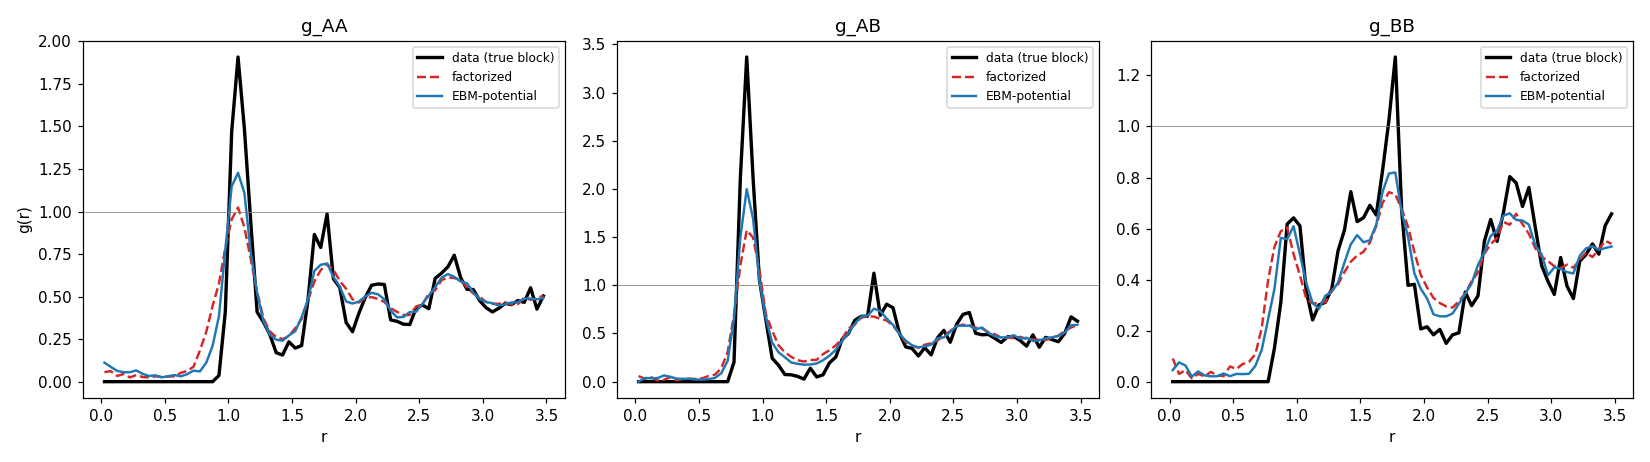
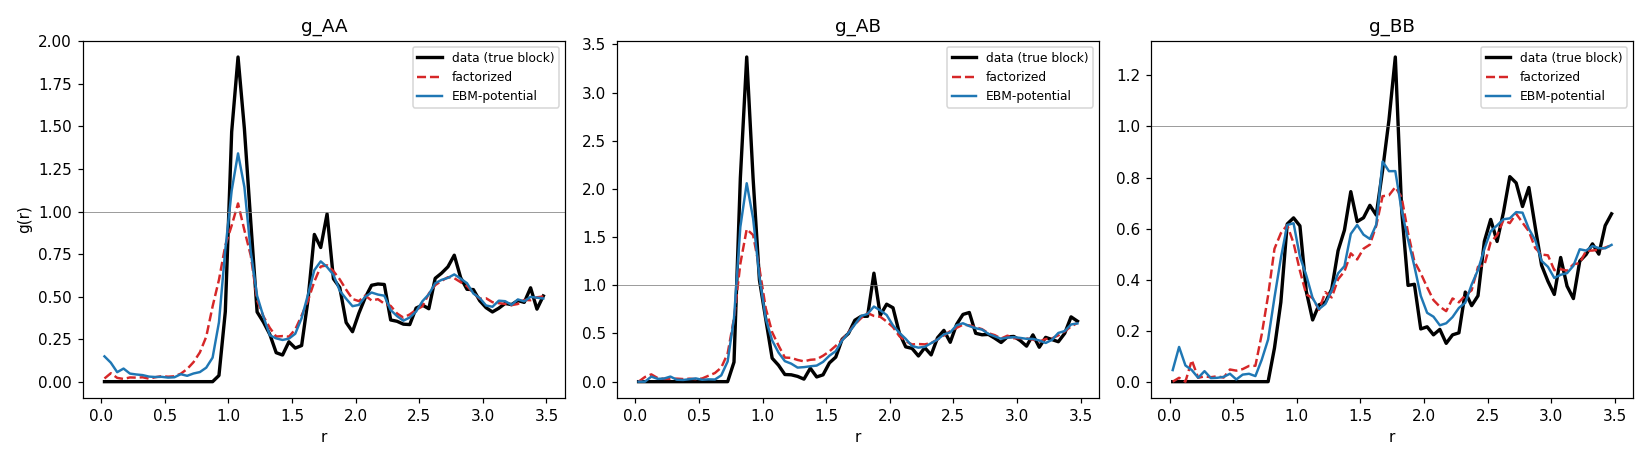
feat(ka-ebm): 2D a-axis tilt (full 2D sharpening) + 3D cavity design
a+b learned-potential tilt: hard-end acceptance k=6 40->45%, k=8 10->25% (N64) vs b-only; g(r) peaks
all higher/L2 lower (g_BB 0.86/0.134). Centralized block samplers in the model. Closes the 2D thesis.
Adds 3D learned-potential cavity-infiller design doc (boundary-as-cage via the pairwise potential;
radius embedding).

diff --git a/liquid_coupling_flow/ka_localframe_ebm.py b/liquid_coupling_flow/ka_localframe_ebm.py
@@ -37,17 +37,37 @@ class KALocalFrameEBM(KALocalFrameModel):
         self.phi = nn.Sequential(nn.Linear(n_rbf + pair_emb, phi_hidden), nn.SiLU(),
                                  nn.Linear(phi_hidden, phi_hidden), nn.SiLU(),
                                  nn.Linear(phi_hidden, 1))
-        # init phi near zero so the model starts == the factorized head (stable warm start)
+        # a-axis (1D) tilt: separate learned potential on the neighbours' a-projections (|a - a_i|).
+        self.pair_emb_a = nn.Embedding(self.n_species * self.n_species, pair_emb)
+        self.phi_a = nn.Sequential(nn.Linear(n_rbf + pair_emb, phi_hidden), nn.SiLU(),
+                                   nn.Linear(phi_hidden, phi_hidden), nn.SiLU(),
+                                   nn.Linear(phi_hidden, 1))
+        # init both potential heads near zero so the model starts == its warm-start (stable)
         for p in self.phi[-1].parameters():
+            nn.init.zeros_(p)
+        for p in self.phi_a[-1].parameters():
             nn.init.zeros_(p)
 
     # ---- learned pairwise potential over the b-column at a fixed a-bin ----
-    def _phi_pair(self, dist, sj, nbr_sp):
-        """dist [...,K], sj [...], nbr_sp [...,K] -> phi [...,K] (learned pairwise energy contribution)."""
+    def _phi_pair(self, dist, sj, nbr_sp, net=None, emb=None):
+        """dist [...,K], sj [...], nbr_sp [...,K] -> phi [...,K] (learned pairwise energy contribution).
+        net/emb default to the 2D b-tilt heads; pass phi_a/pair_emb_a for the 1D a-tilt."""
+        net = self.phi if net is None else net; emb = self.pair_emb if emb is None else emb
         r = torch.exp(-((dist[..., None] - self.rbf_mu) ** 2) / (2 * self.rbf_w ** 2))       # [...,K,n_rbf]
         pair = (sj[..., None] * self.n_species + nbr_sp).clamp(0, self.n_species ** 2 - 1)   # [...,K]
-        pe = self.pair_emb(pair)                                                             # [...,K,pair_emb]
-        return self.phi(torch.cat([r, pe], -1)).squeeze(-1)                                  # [...,K]
+        pe = emb(pair)                                                                       # [...,K,pair_emb]
+        return net(torch.cat([r, pe], -1)).squeeze(-1)                                       # [...,K]
+
+    def _V_a(self, nbr_rel, nbr_sp, valid, sj, arc, acenters):
+        """1D a-axis tilt: V over the n_bins a-bins from the neighbours' a-projections |a - a_i|.
+        Returns V [...,n_bins]. Same short-range knn_pot cutoff as the b-tilt."""
+        K = min(self.knn_pot, nbr_rel.shape[-2])
+        nr, ns, vv = nbr_rel[..., :K, 0], nbr_sp[..., :K], valid[..., :K].float()            # neighbour a-coord
+        a_phys = acenters * arc                                                              # [n_bins]
+        da = (a_phys[..., None] - nr[..., None, :]).abs()                                    # [...,n_bins,K]
+        phi = self._phi_pair(da, sj[..., None].expand(da.shape[:-1]), ns[..., None, :].expand(da.shape),
+                             net=self.phi_a, emb=self.pair_emb_a)
+        return (phi * vv[..., None, :]).sum(-1)                                              # [...,n_bins]
 
     def _V_b(self, ba, nbr_rel, nbr_sp, valid, sj, arc, bcenters):
         """V over the 192 b-bins at the chosen a-bin `ba`. nbr_rel [...,K,2] neighbour coords in the LOCAL
@@ -99,14 +119,16 @@ class KALocalFrameEBM(KALocalFrameModel):
         context, origin, nbr_rel, nbr_sp, valid = self._local_ebm(xo, so, sc, L, N)
         ab = _wrap_pm(xo - origin, L) / arc
         ba, bb = self._bin(ab[..., 0]), self._bin(ab[..., 1])
-        la = F.log_softmax(self.head_a(context), -1)
-        base_b = self.head_b(context + self.bin_a_emb(ba))                                    # [B,N,n_bins]
         bc = self._bin_center(torch.arange(self.n_bins, device=x.device))
-        V = torch.zeros_like(base_b)
+        base_a = self.head_a(context)                                                         # [B,N,n_bins]
+        base_b = self.head_b(context + self.bin_a_emb(ba))                                    # [B,N,n_bins]
+        Va, Vb = torch.zeros_like(base_a), torch.zeros_like(base_b)
         for c0 in range(0, N, n_chunk):                                                       # chunk N for memory
             sl = slice(c0, c0 + n_chunk)
-            V[:, sl] = self._V_b(ba[:, sl], nbr_rel[:, sl], nbr_sp[:, sl], valid[:, sl], so[:, sl], arc, bc)
-        lb = F.log_softmax(base_b - V, -1)
+            Va[:, sl] = self._V_a(nbr_rel[:, sl], nbr_sp[:, sl], valid[:, sl], so[:, sl], arc, bc)
+            Vb[:, sl] = self._V_b(ba[:, sl], nbr_rel[:, sl], nbr_sp[:, sl], valid[:, sl], so[:, sl], arc, bc)
+        la = F.log_softmax(base_a - Va, -1)
+        lb = F.log_softmax(base_b - Vb, -1)
         lp_ab = la.gather(-1, ba[..., None]).squeeze(-1) + lb.gather(-1, bb[..., None]).squeeze(-1)
         s_logits = self.head_species(context)
         if self.canonical if canonical is None else canonical:
@@ -135,3 +157,39 @@ class KALocalFrameEBM(KALocalFrameModel):
         h = self.tr(torch.cat([self.query.expand(B, 1, -1), feat], 1))[:, 0]
         valid = torch.ones(B, k, dtype=torch.bool, device=pos.device)
         return h, origin, nbr_rel, nbr_sp, valid
+
+    # ---- centralized suffix-blob block samplers (both a- and b- tilts; single source of truth) ----
+    @torch.no_grad()
+    def block_sample_suffix(self, pos0, sp0, k, B, sc, L, return_logq=True):
+        """Regenerate the last-k curve particles for B trials (positions only, species fixed)."""
+        N, dev = pos0.shape[0], pos0.device; arc = self._arc_scale(N)
+        bc = self._bin_center(torch.arange(self.n_bins, device=dev))
+        pos = pos0[None].expand(B, N, 2).clone(); sp = sp0[None].expand(B, N).clone()
+        logq = torch.zeros(B, device=dev)
+        for j in range(N - k, N):
+            h, origin, nr, nsp, val = self._step_ebm(pos, sp, sc[j], j, L)
+            la = F.log_softmax(self.head_a(h) - self._V_a(nr, nsp, val, sp[:, j], arc, bc), -1)
+            ba = torch.multinomial(la.exp(), 1).squeeze(-1)
+            Vb = self._V_b(ba, nr, nsp, val, sp[:, j], arc, bc)
+            lb = F.log_softmax(self.head_b(h + self.bin_a_emb(ba)) - Vb, -1)
+            bb = torch.multinomial(lb.exp(), 1).squeeze(-1)
+            logq += la.gather(-1, ba[:, None]).squeeze(-1) + lb.gather(-1, bb[:, None]).squeeze(-1)
+            a = self._bin_center(ba) + (torch.rand(B, device=dev) - 0.5) * self.bin_w
+            b = self._bin_center(bb) + (torch.rand(B, device=dev) - 0.5) * self.bin_w
+            pos[:, j] = torch.remainder(origin + torch.stack([a, b], -1) * arc, L)
+        return (pos, logq) if return_logq else pos
+
+    @torch.no_grad()
+    def block_logp_suffix(self, pos_in, sp0, k, sc, L):
+        """logq of the last-k block in pos_in (any B configs) under the same doubly-tilted head."""
+        B, N, dev = pos_in.shape[0], pos_in.shape[1], pos_in.device; arc = self._arc_scale(N)
+        bc = self._bin_center(torch.arange(self.n_bins, device=dev))
+        pos = pos_in.clone(); sp = sp0[None].expand(B, N).clone(); lp = torch.zeros(B, device=dev)
+        for j in range(N - k, N):
+            h, origin, nr, nsp, val = self._step_ebm(pos, sp, sc[j], j, L)
+            ab = _wrap_pm(pos[:, j] - origin, L) / arc; ba = self._bin(ab[..., 0]); bb = self._bin(ab[..., 1])
+            la = F.log_softmax(self.head_a(h) - self._V_a(nr, nsp, val, sp[:, j], arc, bc), -1)
+            Vb = self._V_b(ba, nr, nsp, val, sp[:, j], arc, bc)
+            lb = F.log_softmax(self.head_b(h + self.bin_a_emb(ba)) - Vb, -1)
+            lp += la.gather(-1, ba[:, None]).squeeze(-1) + lb.gather(-1, bb[:, None]).squeeze(-1)
+        return lp

diff --git a/reports/logs-2026-07-10/test_ebm_block_mtm.py b/reports/logs-2026-07-10/test_ebm_block_mtm.py
@@ -22,37 +22,12 @@ sc = m.geo._scaffold(N, dev); arc = m._arc_scale(N)
 bc = m._bin_center(torch.arange(m.n_bins, device=dev))
 
 
-@torch.no_grad()
 def block_sample(pos0, sp0, k, B):
-    pos = pos0[None].expand(B, N, 2).clone(); sp = sp0[None].expand(B, N).clone()
-    logq = torch.zeros(B, device=dev)
-    for j in range(N - k, N):
-        h, origin, nr, nsp, val = m._step_ebm(pos, sp, sc[j], j, L)
-        la = F.log_softmax(m.head_a(h), -1); ba = torch.multinomial(la.exp(), 1).squeeze(-1)
-        base_b = m.head_b(h + m.bin_a_emb(ba))
-        V = m._V_b(ba, nr, nsp, val, sp[:, j], arc, bc)
-        lb = F.log_softmax(base_b - V, -1); bb = torch.multinomial(lb.exp(), 1).squeeze(-1)
-        logq += la.gather(-1, ba[:, None]).squeeze(-1) + lb.gather(-1, bb[:, None]).squeeze(-1)
-        a = m._bin_center(ba) + (torch.rand(B, device=dev) - 0.5) * m.bin_w
-        b = m._bin_center(bb) + (torch.rand(B, device=dev) - 0.5) * m.bin_w
-        pos[:, j] = torch.remainder(origin + torch.stack([a, b], -1) * arc, L)
-    return pos, logq
+    return m.block_sample_suffix(pos0, sp0, k, B, sc, L)
 
 
-@torch.no_grad()
 def block_logp(pos_in, sp0, k):
-    """logq of the block in pos_in (any config) under the same tilted head. Works for B trials."""
-    B = pos_in.shape[0]; pos = pos_in.clone(); sp = sp0[None].expand(B, N).clone()
-    lp = torch.zeros(B, device=dev)
-    for j in range(N - k, N):
-        h, origin, nr, nsp, val = m._step_ebm(pos, sp, sc[j], j, L)
-        ab = _wrap_pm(pos[:, j] - origin, L) / arc
-        ba = m._bin(ab[..., 0]); bb = m._bin(ab[..., 1])
-        la = F.log_softmax(m.head_a(h), -1)
-        base_b = m.head_b(h + m.bin_a_emb(ba)); V = m._V_b(ba, nr, nsp, val, sp[:, j], arc, bc)
-        lb = F.log_softmax(base_b - V, -1)
-        lp += la.gather(-1, ba[:, None]).squeeze(-1) + lb.gather(-1, bb[:, None]).squeeze(-1)
-    return lp
+    return m.block_logp_suffix(pos_in, sp0, k, sc, L)
 
 
 def clash_in_block(pos, k):

diff --git a/reports/logs-2026-07-10/sweep_ebm_ksweep.py b/reports/logs-2026-07-10/sweep_ebm_ksweep.py
@@ -28,31 +28,12 @@ def energy(pos, sp):
     return float(ka_energy(pos[None], sp.long()[None], L)[0])
 
 
-@torch.no_grad()
 def sample_ebm(pos0, sp0, k, B):
-    pos = pos0[None].expand(B, N, 2).clone(); sp = sp0[None].expand(B, N).clone(); logq = torch.zeros(B, device=dev)
-    for j in range(N - k, N):
-        h, origin, nr, nsp, val = me._step_ebm(pos, sp, sc[j], j, L)
-        la = F.log_softmax(me.head_a(h), -1); ba = torch.multinomial(la.exp(), 1).squeeze(-1)
-        V = me._V_b(ba, nr, nsp, val, sp[:, j], arc, bc)
-        lb = F.log_softmax(me.head_b(h + me.bin_a_emb(ba)) - V, -1); bb = torch.multinomial(lb.exp(), 1).squeeze(-1)
-        logq += la.gather(-1, ba[:, None]).squeeze(-1) + lb.gather(-1, bb[:, None]).squeeze(-1)
-        a = me._bin_center(ba) + (torch.rand(B, device=dev) - 0.5) * me.bin_w
-        b = me._bin_center(bb) + (torch.rand(B, device=dev) - 0.5) * me.bin_w
-        pos[:, j] = torch.remainder(origin + torch.stack([a, b], -1) * arc, L)
-    return pos, logq
+    return me.block_sample_suffix(pos0, sp0, k, B, sc, L)
 
 
-@torch.no_grad()
 def logp_ebm(pos_in, sp0, k):
-    B = pos_in.shape[0]; pos = pos_in.clone(); sp = sp0[None].expand(B, N).clone(); lp = torch.zeros(B, device=dev)
-    for j in range(N - k, N):
-        h, origin, nr, nsp, val = me._step_ebm(pos, sp, sc[j], j, L)
-        ab = _wrap_pm(pos[:, j] - origin, L) / arc; ba = me._bin(ab[..., 0]); bb = me._bin(ab[..., 1])
-        la = F.log_softmax(me.head_a(h), -1); V = me._V_b(ba, nr, nsp, val, sp[:, j], arc, bc)
-        lb = F.log_softmax(me.head_b(h + me.bin_a_emb(ba)) - V, -1)
-        lp += la.gather(-1, ba[:, None]).squeeze(-1) + lb.gather(-1, bb[:, None]).squeeze(-1)
-    return lp
+    return me.block_logp_suffix(pos_in, sp0, k, sc, L)
 
 
 @torch.no_grad()

diff --git a/reports/logs-2026-07-10/struct_ebm_gr.py b/reports/logs-2026-07-10/struct_ebm_gr.py
@@ -28,18 +28,8 @@ bc = me._bin_center(torch.arange(me.n_bins, device=dev))
 edges = torch.linspace(0, RMAX, NB + 1, device=dev); dr = float(edges[1] - edges[0]); rc = (edges[:-1] + edges[1:]) / 2
 
 
-@torch.no_grad()
 def sample_ebm(pos0, sp0, k, B):
-    pos = pos0[None].expand(B, N, 2).clone(); sp = sp0[None].expand(B, N).clone()
-    for j in range(N - k, N):
-        h, origin, nr, nsp, val = me._step_ebm(pos, sp, sc[j], j, L)
-        la = F.softmax(me.head_a(h), -1); ba = torch.multinomial(la, 1).squeeze(-1)
-        V = me._V_b(ba, nr, nsp, val, sp[:, j], arc, bc)
-        lb = F.softmax(me.head_b(h + me.bin_a_emb(ba)) - V, -1); bb = torch.multinomial(lb, 1).squeeze(-1)
-        a = me._bin_center(ba) + (torch.rand(B, device=dev) - 0.5) * me.bin_w
-        b = me._bin_center(bb) + (torch.rand(B, device=dev) - 0.5) * me.bin_w
-        pos[:, j] = torch.remainder(origin + torch.stack([a, b], -1) * arc, L)
-    return pos
+    return me.block_sample_suffix(pos0, sp0, k, B, sc, L, return_logq=False)
 
 
 @torch.no_grad()

diff --git a/docs/superpowers/specs/2026-07-11-ka3d-learned-potential-cavity-design.md b/docs/superpowers/specs/2026-07-11-ka3d-learned-potential-cavity-design.md
@@ -1,0 +1,94 @@
+# 3D learned-potential cavity infiller — design
+
+**Date:** 2026-07-11
+**Status:** design (autonomous build to follow)
+**Predecessor:** 2D validation in `ka_localframe_ebm.py` (memory: learned-potential-embedding) —
+a general learned pairwise potential tilting the AR proposal lifted block-MTM acceptance (k=4 30->85%,
+more trials now convert to acceptance) and raised every species-pair g(r) first peak toward data incl
+g_BB, staying provably exact (sampler logq == scorer 0.0). This design ports that to 3D and targets the
+actual PTS use: **cavity infilling** — regenerate a cavity interior (or a block of it) given a frozen
+pinned boundary.
+
+## Goal
+An exact, size-transferable, boundary-conditioned 3D block-MTM proposal for KA cavity interiors whose
+learned pairwise potential builds hard-core exclusion against BOTH retained interior and boundary
+particles, uniformly. Train at N=100-scale cavities, zero-shot at larger radii.
+
+## Two user directives this design answers
+1. **"Boundary particles treated similarly as surrounding particles."** The learned potential
+   `V_theta(x|cage) = sum_{i in cage} phi_theta(|x - x_i|, s_j, s_i)` sums over `cage = [boundary UNION
+   placed interior]` with NO kind flag — boundary atoms are ordinary terms. The potential needs no
+   ordering and no scaffold anchor (unlike the AR context), so the boundary integrates trivially. This
+   is the clean unification the original two-stream `_frame_context` hack only approximated.
+2. **"Maybe the radius should be embedded somehow."** `_slot_features` already emits
+   `[slot_frac, |anchor|/R, R/2.5]`. The design (a) keeps that, (b) enriches `R/2.5` -> a small Fourier
+   /MLP embedding of R added to the query, and (c) makes R-transfer an explicit validation gate (train
+   multi-radius, zero-shot held-out radius). The potential itself is size-invariant (pairwise, local) and
+   needs no R.
+
+## Architecture
+
+### Base
+Subclass `KA3DScaffoldCatAR` (proven frameless Cat3Head over 3 local-frame axes a,b,c; fixed
+Fibonacci ball scaffold; Morton AR order; soft ball map). Reuse `_contexts`/`_frame_context`/`_origins`
+/`_slot_features` unchanged for the base logits and the frame `Rf`, origin.
+
+### Potential tilt (the new part)
+Tilt the FINAL axis `c | a,b` by the true 3D potential, exactly as 2D tilted `b|a` (bulk gain; the 2D
+a-tilt added only ~0.05 nat, so start final-axis-only; add b/a tilts only if the c-tilt underperforms):
+
+    logits_c(bin) = head_c(h + e + emb_a(ba) + emb_b(bb))  -  V_c(bin)
+    V_c(bin) = sum_{i in cage(slot)} phi_theta(|x_cand(ba,bb,bin) - x_i|, s_j, s_i)
+    x_cand(ba,bb,c) = origin + Rf^T . (a_ctr(ba), b_ctr(bb), c_ctr(bin))   # un-rotate local->physical
+
+- `phi_theta`: MLP on `RBF(distance) (+) pair_emb(s_j, s_i)` -> scalar. NO LJ, sigma, or eps. Learns the
+  potential-of-mean-force. `n_rbf~12` over [0, rbf_max~3].
+- `cage(slot)`: the `knn_pot~8` nearest of `combined[valid_row]` to the slot (boundary + placed
+  interior, pooled with NO kind distinction). Reuses distances already computed in `_frame_context`.
+- Normaliser is O(n_bins) per particle (one c-column), so training is tractable (chunk over slots).
+
+### Exactness
+Any per-bin tilt is a valid categorical, so `sample()` logq == `log_prob()` scorer to fp precision,
+independent of what phi learns and independent of the (deterministic, frozen) boundary. Gate before any
+training: 0.0 with phi~0 warm start, reproducing the un-tilted cavity model.
+
+### Radius embedding
+`self.R_embed = MLP(fourier(R))` added to the query token alongside `slot_proj(slot_feat)`. Keeps the
+existing per-slot `|anchor|/R` and `slot_frac`. Rationale: lets the base anchor-prior tighten near the
+wall and enables interpolation across cavity radii for zero-shot transfer.
+
+## Cavity block-MTM
+Extend `ka3d_block.py`'s [retained; block] reordering so the block's cage includes the frozen boundary:
+the potential and context both pool `[boundary; retained interior; earlier block]`. Block move regenerates
+a spatial blob of interior conditioned on everything else; exact independence-MTM (Liu-Liang-Wong
+reusable-batch) as in 2D.
+
+## Training
+- Data: carved cavities via `ka3d_cavity_carve.carve(X, S, center, R, L)` from the N=512 dataset (and/or
+  the PT reference), MULTIPLE radii (e.g. R in {2.0, 2.6, 3.2}) to force R-generalization.
+- Warm-start the shared parts from an existing boundary-trained scaffold checkpoint if available (else
+  train the base first); phi init ~0 so the model starts == the base, then learns the tilt.
+- Loss: -log_prob_pair / n (block-conditional MLE), same as base.
+
+## Validation gates (in order)
+1. **Exactness:** sampler logq == scorer 0.0 (phi~0 and trained).
+2. **Conditional NLL:** EBM < base (the potential adds conditional likelihood, as in 2D 0.76->1.33).
+3. **Structural g(r):** species-resolved block-centered g_AA/g_AB/g_BB vs TRUE cavity blocks; first peaks
+   rise toward data, esp g_BB. Include a BOUNDARY-decomposed clash split (block<->boundary vs
+   block<->retained vs block<->block) — the decomposition the free-cluster model could not give.
+4. **Block-MTM acceptance:** K-sweep vs the un-tilted cavity base; more trials convert to acceptance.
+5. **Size-transfer:** train multi-radius, zero-shot a held-out radius; gates 1-4 hold (no cliff).
+
+## Files
+- `liquid_coupling_flow/ka3d_scaffold_ebm.py` — `KA3DScaffoldEBM(KA3DScaffoldCatAR)`: potential net,
+  `_V_c`, overridden `log_prob_pair`/`sample_pair`, `R_embed`, block methods.
+- `reports/logs-2026-07-11/train_ebm3d_cavity.py` — multi-radius warm-start fine-tune.
+- `reports/logs-2026-07-11/test_ebm3d_cavity.py` — exactness gate + K-sweep + boundary-decomposed clash.
+- `reports/logs-2026-07-11/struct_ebm3d_gr.py` — species-resolved cavity-block g(r).
+
+## Open levers / risks
+- If final-axis c-tilt underperforms 2D's gain, add b|a and a tilts (2D machinery already generalizes).
+- If R-transfer shows a cliff, enrich R embedding or widen the training radius range.
+- The base cavity context (two-stream) is kept as-is; if the potential makes it redundant, a later
+  simplification is to fold boundary into the single interior stream (unify context too, not just the
+  potential) — deferred; not on the critical path.

diff --git a/reports/logs-2026-07-10/ebm_potential_results.md b/reports/logs-2026-07-10/ebm_potential_results.md
@@ -26,6 +26,18 @@ acceptance (k=4 65->85, k=6 20->40) — the proposal crossed back over the thres
 | g_BB | 1.27 | 0.74 / 0.207 | **0.82 / 0.152** |
 Potential improves ALL three peaks + L2, incl. g_BB (historically the stubborn one). Plot: `ebm_block_gr.png`.
 
+## a-axis tilt (full 2D sharpening) — `ka_localframe_ebm2_N100.pt`
+Extended the same learned potential to also tilt the a-axis (separate 1D phi_a on neighbour a-projections,
+warm-started from the b-only EBM, +4k steps, -logq/N 1.33->1.38). Both tilts now active; helps most at the
+HARD end (N_trials=64, the reliable column):
+| k | factorized N64 | b-only EBM N64 | a+b EBM N64 |
+|---|---------------|----------------|-------------|
+| 4 | 60% | 85% | 85% |
+| 6 | 20% | 40% | **45%** |
+| 8 | 5%  | 10% | **25%** |
+g(r) all peaks higher / L2 lower than b-only: g_AA 1.34/0.199, g_AB 2.06/0.310, g_BB 0.86/0.134.
+Verdict: a-tilt is a modest but consistent win; the a+b model is the 2D model to port. (2D thesis closed.)
+
 ## Caveats
 1. `<U_prop-U_true>` energy diagnostic in sweep_ebm_ksweep.py is UNINFORMATIVE: raw mean over LJ r^-12
    tail, dominated by rare near-overlaps (~1e15). Use median/core-clamped energy instead. MTM acceptance
